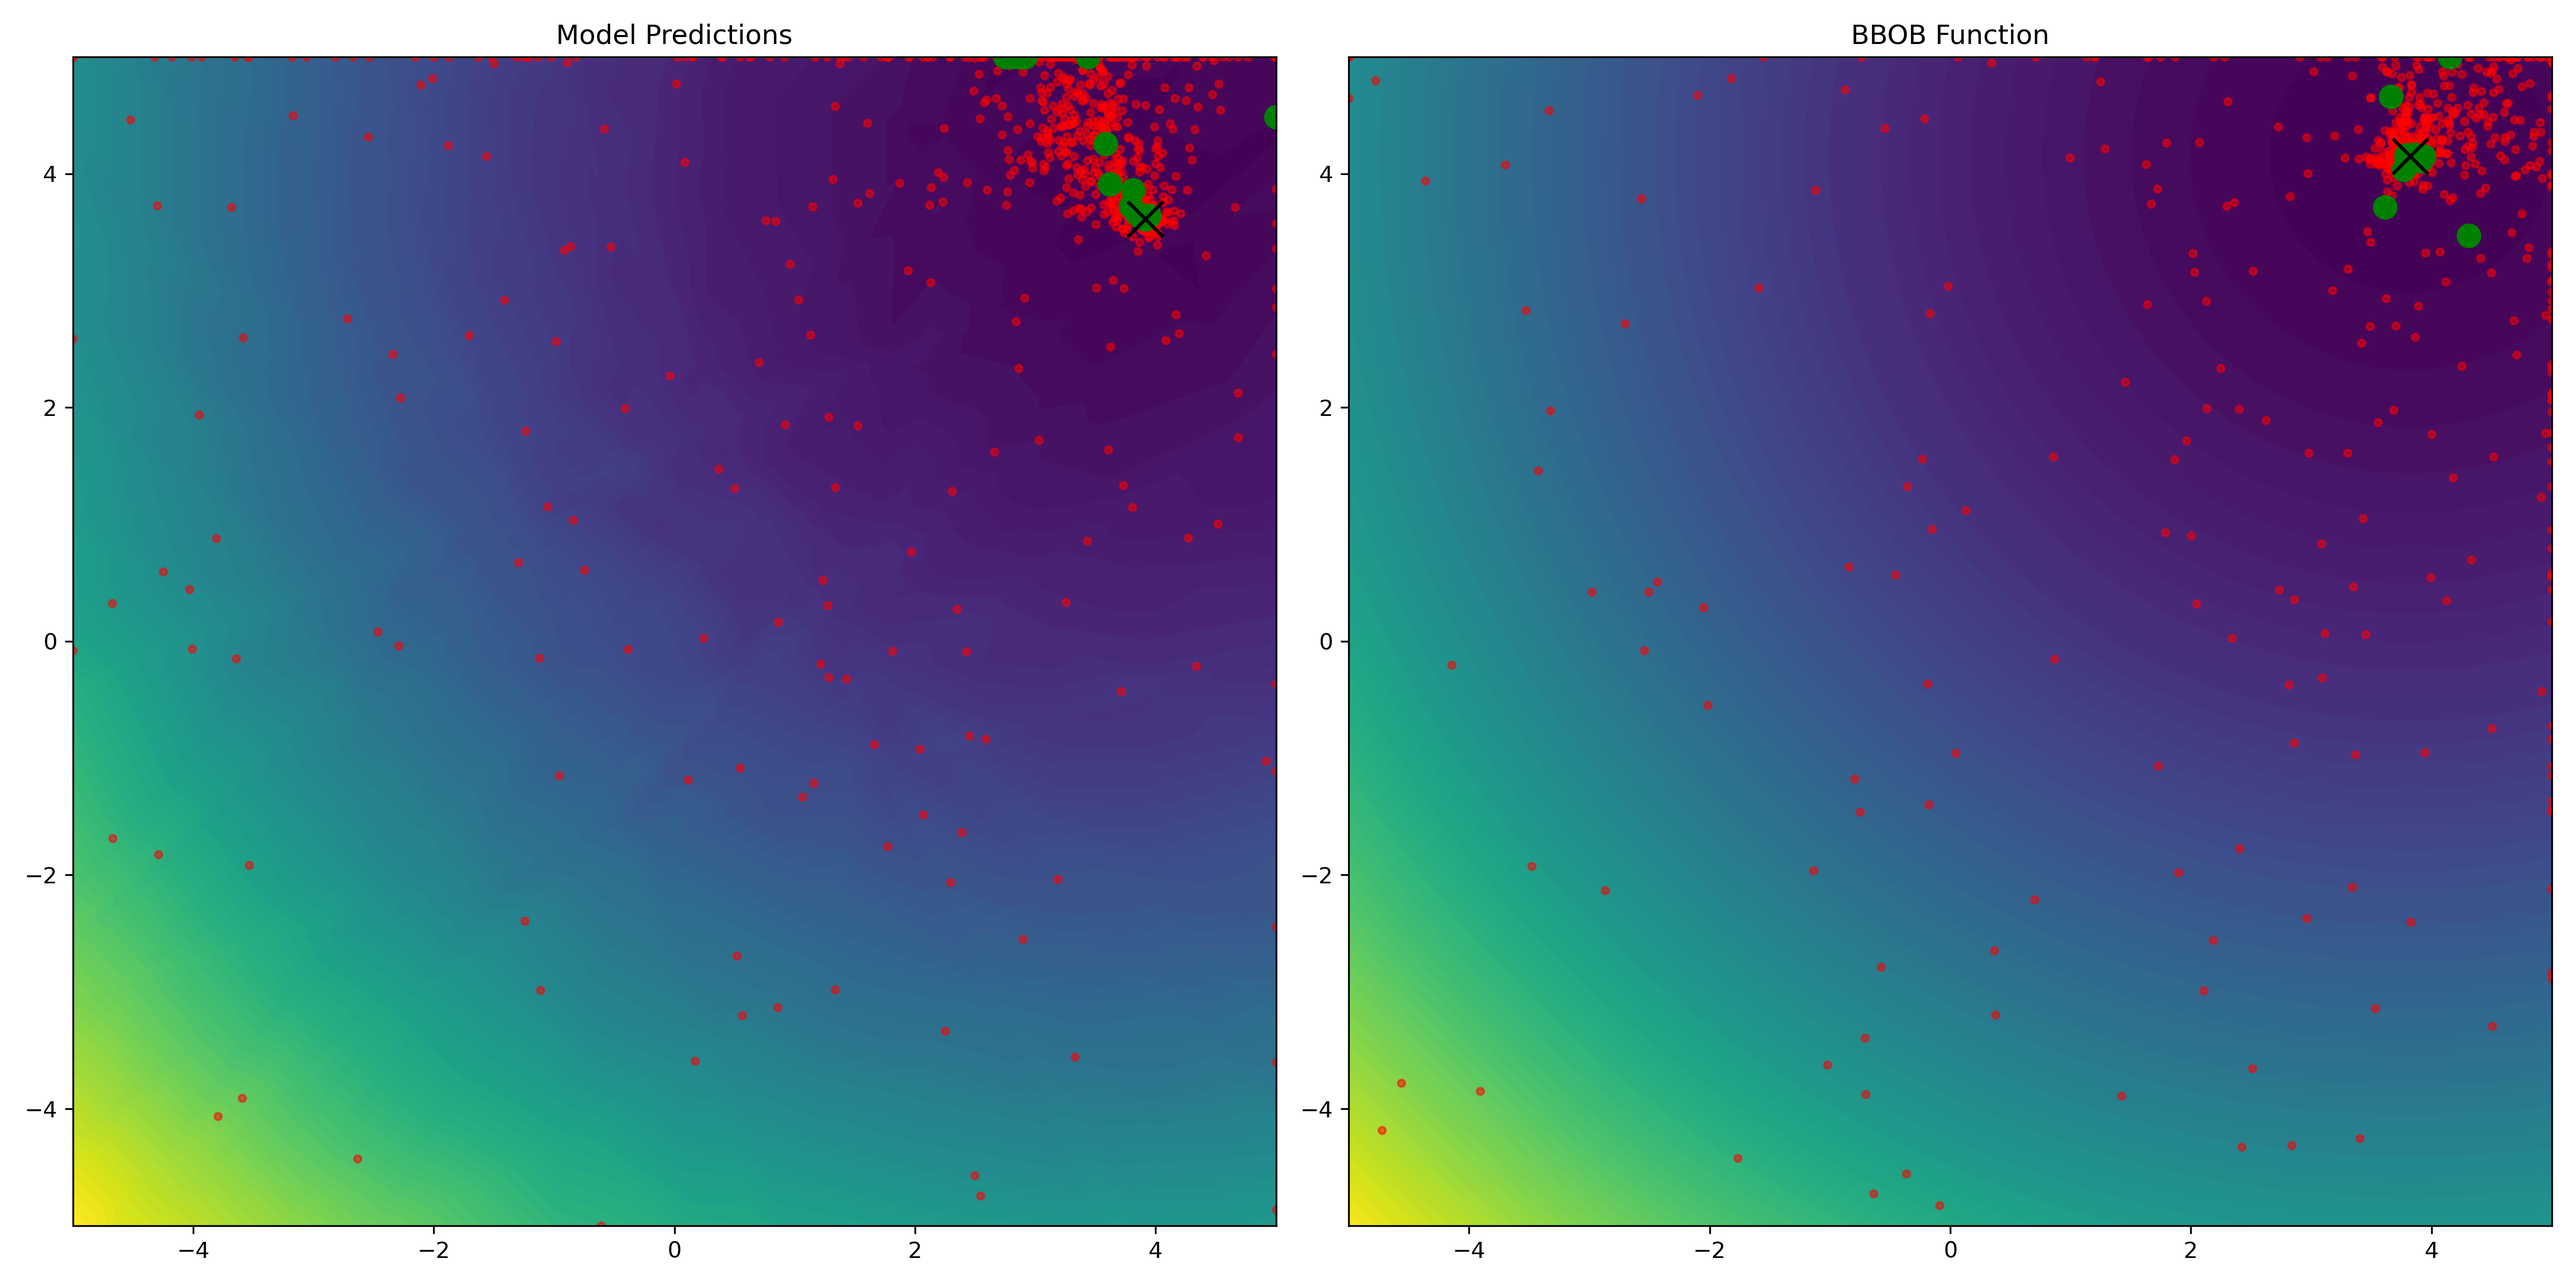
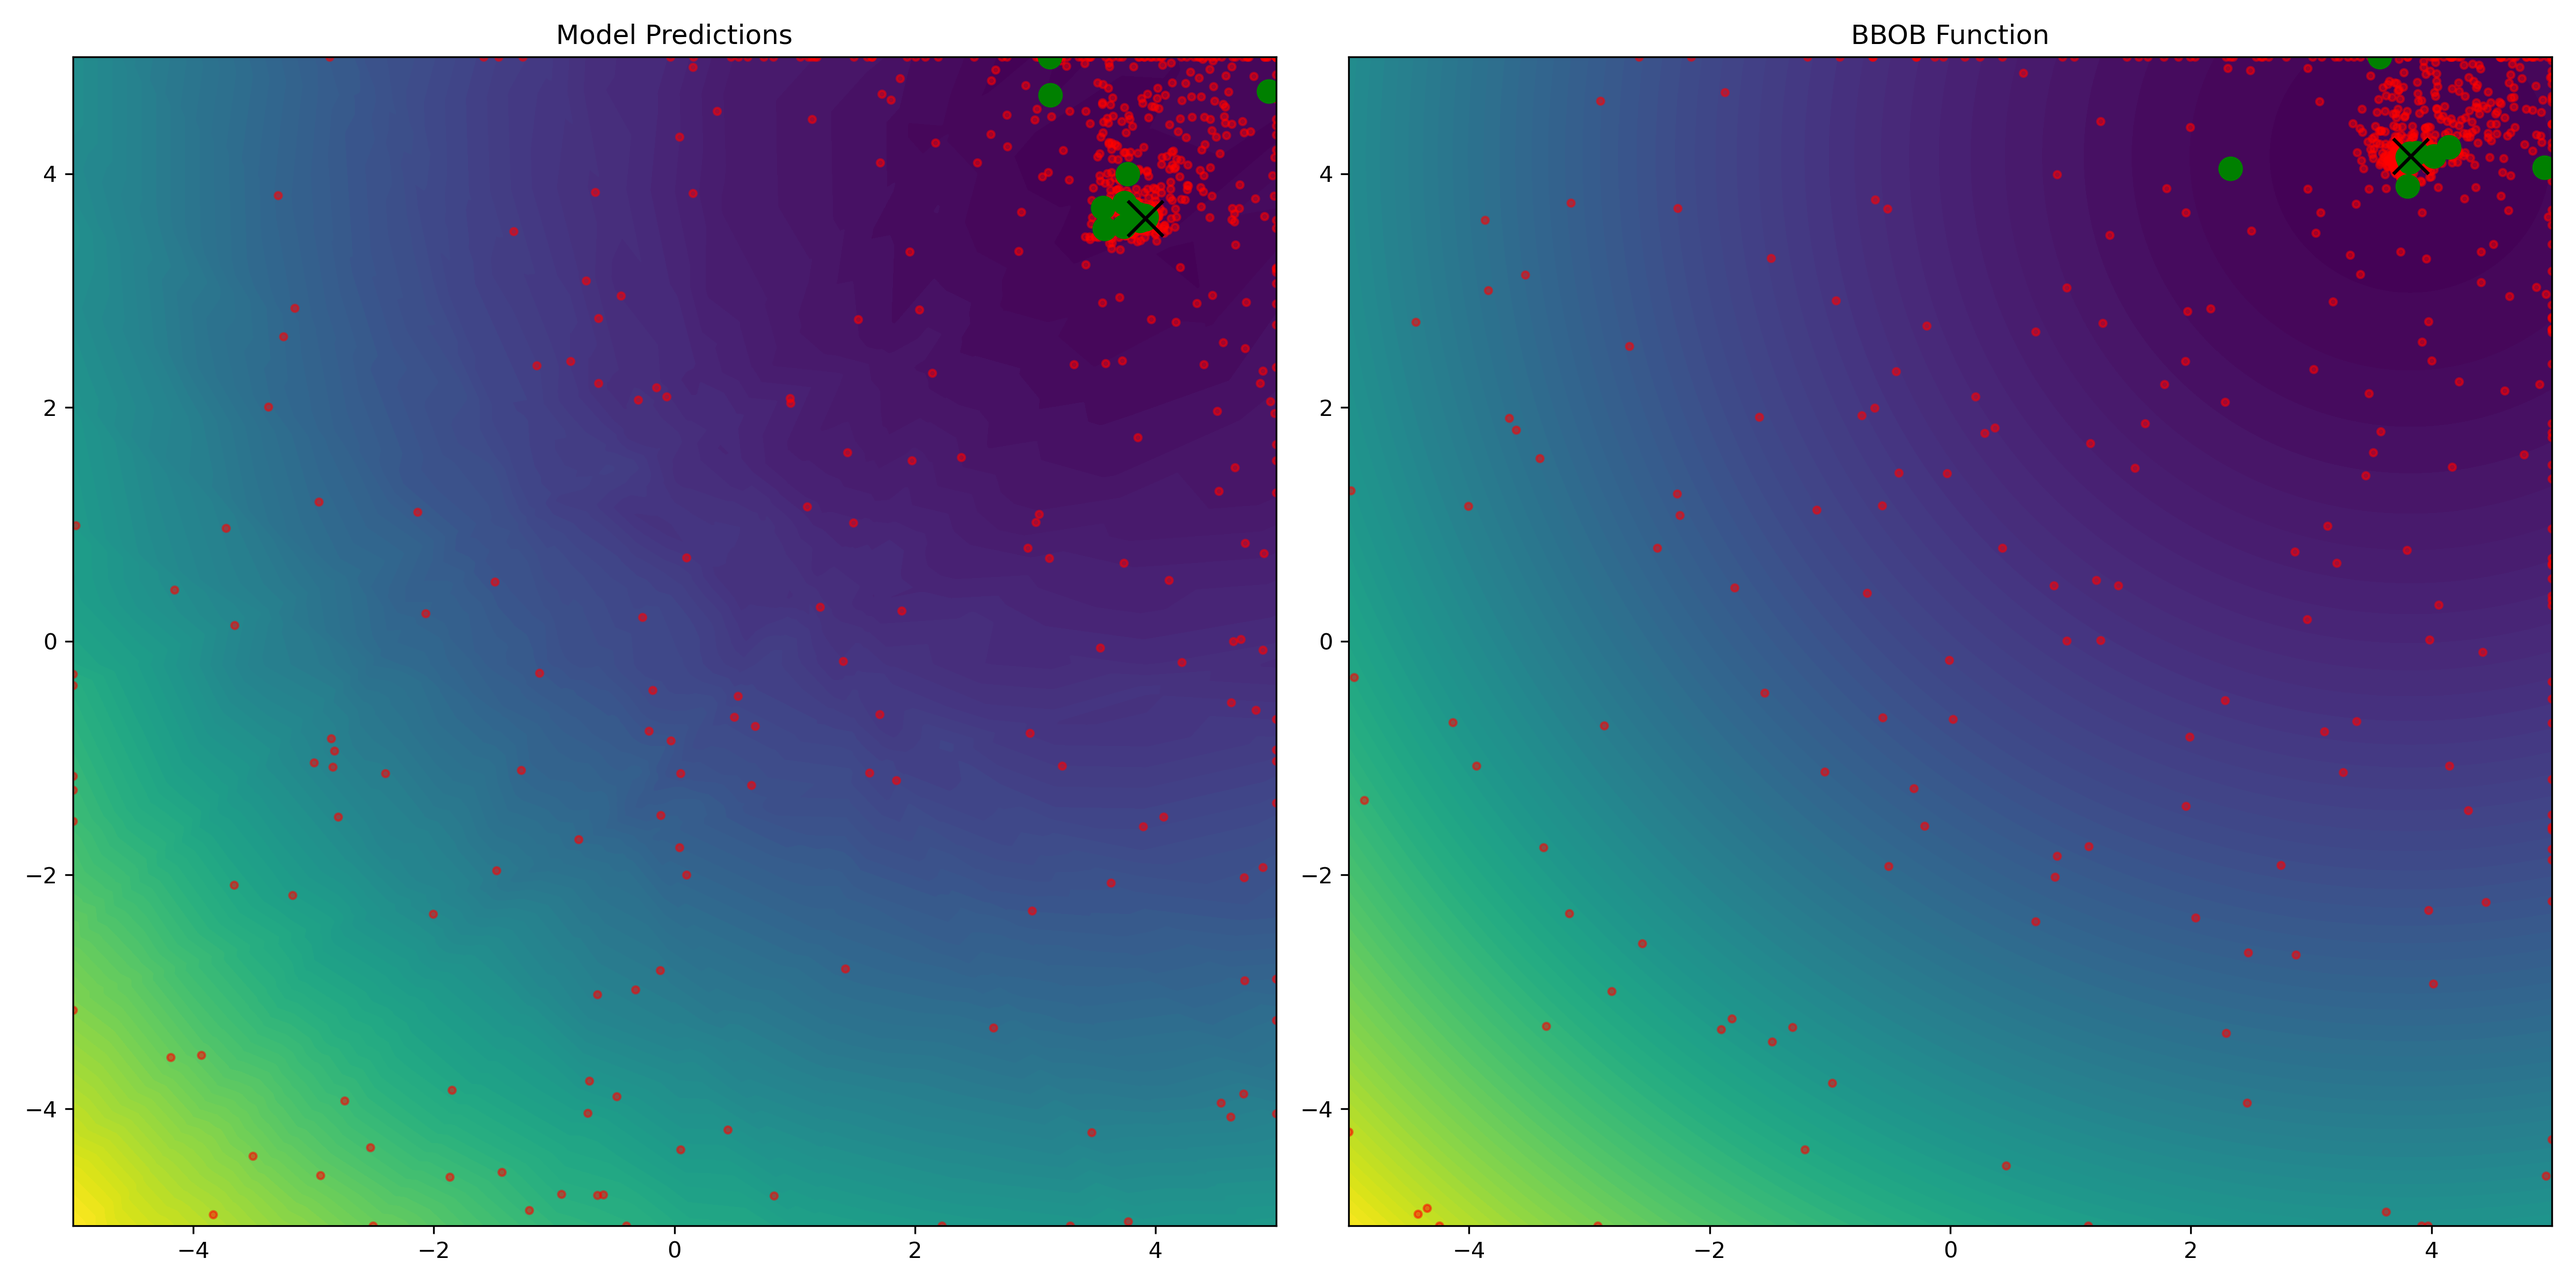
pso fixed seed issue

diff --git a/src/PSO_main_animated.py b/src/PSO_main_animated.py
@@ -19,6 +19,7 @@ def main():
         seed = 0
         for _ in range(4):
             name = f"{model[0]}_{seed}.gif"  # Dynamically generate the image name with .gif extension
+            np.random.seed(seed)
             result_nn, result_bbob, fig = pso_opt.optimize(model_path= model[1], function =model[0],  
                                                                swarmsize=swarmsize, 
                                                                niter=niter, seed= seed, 

diff --git a/src/PSO_main_results_png.py b/src/PSO_main_results_png.py
@@ -19,6 +19,7 @@ def main():
         seed = 0
         for _ in range(4):
             name = model[0]+"_"+str(seed)
+            np.random.seed(seed)
             result_nn, result_bbob, fig = pso_opt.optimize(model_path= model[1], function =model[0],  
                                                                swarmsize=swarmsize, 
                                                                niter=niter, seed= seed, 

diff --git a/src/bin/PSO_opt_animated.py b/src/bin/PSO_opt_animated.py
@@ -151,4 +151,3 @@ class PSO_optimizer():
         results = fn(flat_grid_tensor)
 
         return results.numpy().reshape(x_grid.shape) 
-

diff --git a/src/bin/PSO_optimizer.py b/src/bin/PSO_optimizer.py
@@ -156,4 +156,3 @@ class PSO_optimizer():
         results = fn(flat_grid_tensor)
 
         return results.numpy().reshape(x_grid.shape) 
-
